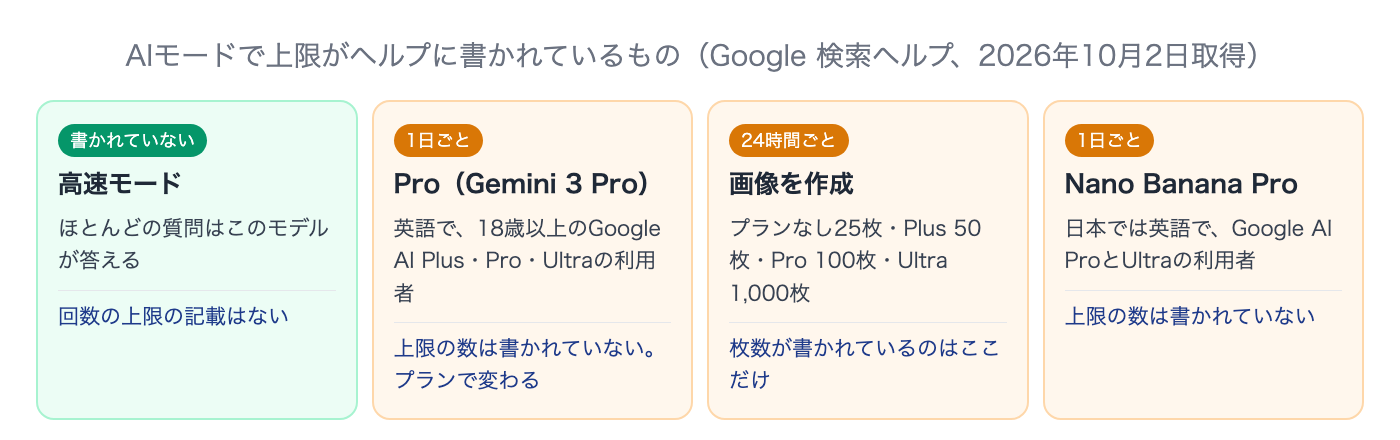
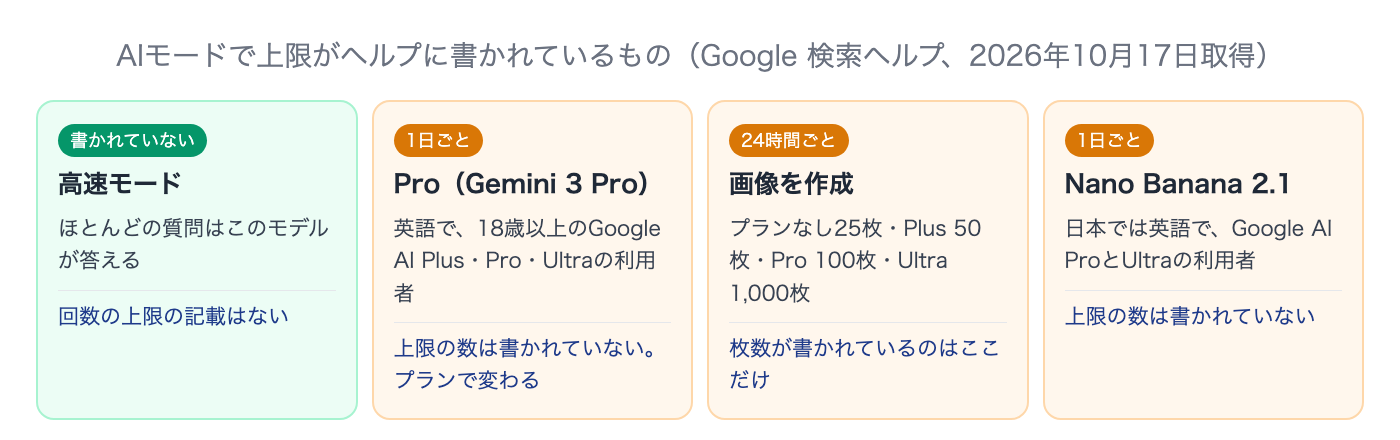
比較ページ・個別記事: Claude Enterpriseの最低20シート（a1）、AIモードのNano Banana ProからNano Banana 2.1（m2）を反映
- ai-compare.json: claude の business セルに Enterprise（年払い・最低20席）、変更履歴2件、last_changed、watch 句を追加
- claude-enterprise・claude-pricing: Enterprise の料金に最低20シートを追記（10/17 取得）
- ai-mode-image-generation・ai-mode-limit・ai-mode-image-upload・ai-mode-english: AIモードの図・インフォグラフィック向けモデルの表記を Nano Banana 2.1 に（ai-mode-limit の図も差し替え）

Changed region(s): [[0.0614, 0.0886, 0.9214, 0.1773], [0.8907, 0.3841, 0.9521, 0.4432]]

diff --git a/media/posts/ai-mode-limit.md b/media/posts/ai-mode-limit.md
@@ -8,14 +8,14 @@ cover_headline: AIモードの回数制限
 cover_sub: 1日の上限・Pro・画像の枚数・Geminiとの違い
 ---
 
-Google検索のAIモードは無料で使え、ふだんの質問に答える「高速モード」のモデルには、Googleのヘルプに回数の上限が書かれていません。ヘルプが1日の上限を書いているのは、上位のモデルのPro（Gemini 3 Pro）、画像の作成、画像のモデルのNano Banana Proの3つです。
+Google検索のAIモードは無料で使え、ふだんの質問に答える「高速モード」のモデルには、Googleのヘルプに回数の上限が書かれていません。ヘルプが1日の上限を書いているのは、上位のモデルのPro（Gemini 3 Pro）、画像の作成、画像のモデルのNano Banana 2.1の3つです。
 
-この記事は2026年10月2日に取得したGoogle 検索ヘルプとGeminiアプリのヘルプをもとに、AIモードで上限があるものと無いものを分け、同じ日に日本語の画面で質問欄のメニューを確かめた結果を載せます。
+この記事は2026年10月2日に取得したGoogle 検索ヘルプとGeminiアプリのヘルプ（Nano Banana 2.1の表記は10月17日に確認）をもとに、AIモードで上限があるものと無いものを分け、同じ日に日本語の画面で質問欄のメニューを確かめた結果を載せます。
 
 :::takeaways
 - ふだんの質問（高速モード）は、**ヘルプに回数の上限が書かれていない**
-- 1日の上限が書かれているのは**Pro・画像の作成・Nano Banana Proの3つ**。枚数まで書かれているのは画像の作成だけで、プランなしは24時間に25枚
-- 日本ではProもNano Banana Proも英語で使うプランの利用者向け。**日本語の画面で質問欄の＋を開くと、出たのは画像の追加・ファイルの追加・画像を作成の3つだった**
+- 1日の上限が書かれているのは**Pro・画像の作成・Nano Banana 2.1の3つ**。枚数まで書かれているのは画像の作成だけで、プランなしは24時間に25枚
+- 日本ではProもNano Banana 2.1も英語で使うプランの利用者向け。**日本語の画面で質問欄の＋を開くと、出たのは画像の追加・ファイルの追加・画像を作成の3つだった**
 - **Geminiアプリの5時間ごと・週ごとの上限は、AIモードとは別のヘルプに書かれた別の上限**
 - 「次の質問をすると、新しい検索が開始します。」は上限の表示ではなく、ヘルプにも説明がない
 :::
@@ -24,14 +24,14 @@ Google検索のAIモードは無料で使え、ふだんの質問に答える「
 
 AIモードの上限は使う機能ごとに決まっています。2026年10月2日にGoogle 検索ヘルプの「[Google 検索の AI モードで AI による回答を取得する](https://support.google.com/websearch/answer/16011537?hl=ja)」と「[Google 検索で画像を作成、編集する](https://support.google.com/websearch/answer/16649374?hl=ja)」を読み、上限に触れている箇所を4つに分けました。
 
-<figure class="post-figure"><img src="/media/images/ai-mode-limit/01_fig_where.png" alt="AIモードで上限がヘルプに書かれているものの図。高速モードは回数の上限の記載がない。Pro（Gemini 3 Pro）は1日ごとの上限があり、英語で18歳以上のGoogle AI Plus・Pro・Ultraの利用者向けで、上限の数は書かれていない。画像を作成は24時間ごとにプランなし25枚・Plus 50枚・Pro 100枚・Ultra 1,000枚。Nano Banana Proは1日ごとの上限があり、日本では英語でGoogle AI ProとUltraの利用者向け" loading="lazy"><figcaption>AIモードの上限は機能ごと。数まで書かれているのは画像の作成だけ</figcaption></figure>
+<figure class="post-figure"><img src="/media/images/ai-mode-limit/01_fig_where.png" alt="AIモードで上限がヘルプに書かれているものの図。高速モードは回数の上限の記載がない。Pro（Gemini 3 Pro）は1日ごとの上限があり、英語で18歳以上のGoogle AI Plus・Pro・Ultraの利用者向けで、上限の数は書かれていない。画像を作成は24時間ごとにプランなし25枚・Plus 50枚・Pro 100枚・Ultra 1,000枚。Nano Banana 2.1は1日ごとの上限があり、日本では英語でGoogle AI ProとUltraの利用者向け" loading="lazy"><figcaption>AIモードの上限は機能ごと。数まで書かれているのは画像の作成だけ</figcaption></figure>
 
 | 機能 | ヘルプにある上限 | 使える人 |
 |---|---|---|
 | 高速モード（ふだんの質問） | 記載なし | だれでも |
 | Pro（Gemini 3 Pro） | 1日ごと。数は書かれていない | 英語で使う18歳以上のGoogle AI Plus・Pro・Ultraの利用者 |
 | 画像を作成 | 24時間に25〜1,000枚（プランで変わる） | ログインした18歳以上の利用者 |
-| Nano Banana Pro | 1日ごと。数は書かれていない | 日本では英語で使うGoogle AI ProとUltraの利用者 |
+| Nano Banana 2.1 | 1日ごと。数は書かれていない | 日本では英語で使うGoogle AI ProとUltraの利用者 |
 
 ### 高速モードには上限の記載がない
 
@@ -58,7 +58,7 @@ AIモードの画像の作成だけは、上限が枚数で書かれています
 | Google AI Pro | 100枚 |
 | Google AI Ultra | 1,000枚 |
 
-上限に達したあとの案内はProと同じで、リセットを待つかプランを上げるかです。図やインフォグラフィックに向いた画像のモデルのNano Banana Proにも別に1日の上限があり、日本では英語で使うGoogle AI ProとUltraの利用者だけが選べます。作り方や保存のしかたは[Google AIモードで画像を生成する方法](/media/ai-mode-image-generation/)にまとめました。
+上限に達したあとの案内はProと同じで、リセットを待つかプランを上げるかです。図やインフォグラフィックに向いた画像のモデルのNano Banana 2.1にも別に1日の上限があり、日本では英語で使うGoogle AI ProとUltraの利用者だけが選べます。ヘルプでのこのモデルの名前は、2026年10月17日にNano Banana ProからNano Banana 2.1に変わりました。作り方や保存のしかたは[Google AIモードで画像を生成する方法](/media/ai-mode-image-generation/)にまとめました。
 
 ## 日本語の画面で質問欄を確かめた結果
 
@@ -92,7 +92,7 @@ ProでもGeminiアプリでもない、ふだんのAIモードの質問で止ま
 |---|---|
 | Pro（Gemini 3 Pro） | 1日の上限のリセットを待つか、Google AIのプランを上げる |
 | 画像の作成 | 24時間の上限のリセットを待つか、Plus・Pro・Ultraにする |
-| Nano Banana Pro | 1日の上限のリセットを待つか、Google AIのプランを上げる |
+| Nano Banana 2.1 | 1日の上限のリセットを待つか、Google AIのプランを上げる |
 
 **リセットの時刻はどの機能のヘルプにも書かれていません。**画像の作成は24時間あたりの枚数なので、たくさん作った時間から1日たつのを目安にします。プランを上げても枚数の上限が上がるだけで、上限そのものがなくなるわけではありません。プランごとの料金は[Geminiの料金プラン](/media/gemini-pricing/)で比べています。
 
@@ -111,7 +111,7 @@ Yahoo!知恵袋には2026年3月から6月にかけて、AIモードで会話を
 ## よくある質問
 
 ### Google AIモードに1日の回数制限はありますか？
-ふだんの質問に答える高速モードには、ヘルプに回数の上限は書かれていません。1日の上限があるのはPro（Gemini 3 Pro）・画像の作成・Nano Banana Proの3つです。
+ふだんの質問に答える高速モードには、ヘルプに回数の上限は書かれていません。1日の上限があるのはPro（Gemini 3 Pro）・画像の作成・Nano Banana 2.1の3つです。
 
 ### Google AIモードは何回まで無料で使えますか？
 ふだんの質問は無料で、回数の上限の記載はありません。画像の作成はGoogle AIのプランに入っていなくても24時間に25枚まで作れます。
@@ -123,7 +123,7 @@ Yahoo!知恵袋には2026年3月から6月にかけて、AIモードで会話を
 日本は対応国に入っていますが、言語は英語だけで、18歳以上のGoogle AI Plus・Pro・Ultraの利用者が対象です。2026年10月2日に日本語の画面で質問欄の＋を開いたときは、Proを選ぶ項目は出ませんでした。
 
 ### AIモードの上限はいつリセットされますか？
-ヘルプにリセットの時刻は書かれていません。ProとNano Banana Proは1日ごと、画像の作成は24時間あたりの上限です。
+ヘルプにリセットの時刻は書かれていません。ProとNano Banana 2.1は1日ごと、画像の作成は24時間あたりの上限です。
 
 ### AIモードとGeminiアプリの上限は同じですか？
 別のものです。Geminiアプリには使った量で決まる上限があり、週ごとの上限に達するまで5時間ごとにリセットされます。AIモードのヘルプには5時間や週の区切りはありません。
@@ -139,7 +139,7 @@ Yahoo!知恵袋には2026年3月から6月にかけて、AIモードで会話を
 本文の上限と条件は2026年10月2日に取得した次のヘルプとプランのページで確認しています。質問欄のメニューは同じ日にパソコンとスマホの画面で確かめました。
 
 - [Google 検索の AI モードで AI による回答を取得する](https://support.google.com/websearch/answer/16011537?hl=ja)（Google 検索ヘルプ。高速モード、Gemini 3 Proの提供状況と1日ごとの使用量制限）
-- [Google 検索で画像を作成、編集する](https://support.google.com/websearch/answer/16649374?hl=ja)（Google 検索ヘルプ。画像の作成の24時間あたりの上限、Nano Banana Proの1日ごとの上限）
+- [Google 検索で画像を作成、編集する](https://support.google.com/websearch/answer/16649374?hl=ja)（Google 検索ヘルプ。画像の作成の24時間あたりの上限、Nano Banana 2.1の1日ごとの上限。Nano Banana 2.1の表記は2026年10月17日取得）
 - [Google AI のサブスクリプション プランに応じた Gemini アプリの使用量上限とアップグレード](https://support.google.com/gemini/answer/16275805?hl=ja)（Geminiアプリ ヘルプ。5時間ごと・週ごとの上限）
 - [Google AI のプラン](https://one.google.com/about/google-ai-plans/?hl=ja)（Google One。プランごとのAIモードとDeep Searchの扱い）
 - [Googleのaiモードで会話をしていたら急に、エラーが発生したため…](https://detail.chiebukuro.yahoo.co.jp/qa/question_detail/q10326493840)（Yahoo!知恵袋、2026年3月22日）

diff --git a/media/posts/claude-enterprise.md b/media/posts/claude-enterprise.md
@@ -8,12 +8,12 @@ cover_headline: Claude Enterpriseとは
 cover_sub: 料金の仕組み・Teamとの違い・申し込み
 ---
 
-Claude Enterpriseは、Anthropicの[料金ページ](https://claude.com/ja/pricing)のTeam & Enterpriseタブで「大規模に事業を展開する大企業向け」とされている法人向けのプランです。金額の欄には1席あたり月US$20（年払い）と、APIレートでの使用量が並んでいます。席の料金に使える量が含まれるTeamとは、お金のかかり方が根本から違います。
+Claude Enterpriseは、Anthropicの[料金ページ](https://claude.com/ja/pricing)のTeam & Enterpriseタブで「大規模に事業を展開する大企業向け」とされている法人向けのプランです。金額の欄には1席あたり月US$20（年払い、最低20シート）と、APIレートでの使用量が並んでいます。席の料金に使える量が含まれるTeamとは、お金のかかり方が根本から違います。
 
-検討する側が迷うのはTeamとEnterpriseのどちらにするかです。**会社で毎月の金額を席の数で固定できるのはTeamだけで、Enterpriseは席の料金とは別に、使った分を全員分まとめて払う契約です。**この記事は2026年10月13日に取得した料金ページの比較表とヘルプセンターをもとに、料金の数え方・何人から契約できるか・Enterpriseにしかない管理機能・申し込みと移行の注意を整理します。
+検討する側が迷うのはTeamとEnterpriseのどちらにするかです。**会社で毎月の金額を席の数で固定できるのはTeamだけで、Enterpriseは席の料金とは別に、使った分を全員分まとめて払う契約です。**この記事は2026年10月13日に取得した料金ページの比較表とヘルプセンター（最低20シートの表記は10月17日に確認）をもとに、料金の数え方・何人から契約できるか・Enterpriseにしかない管理機能・申し込みと移行の注意を整理します。
 
 :::takeaways
-- Enterpriseは**1席あたり月US$20（年払いのみ）に、使った分のAPI料金が乗る**。席に含まれる使用量はない
+- Enterpriseは**1席あたり月US$20（年払いのみ・最低20席）に、使った分のAPI料金が乗る**。席に含まれる使用量はない
 - **毎月の金額を席の数で決められるのはTeamだけ**。Enterpriseの費用は管理者が決める支出上限で抑える
 - 最低席数は**セルフサービスが20席、営業担当経由が50席**。Teamは2〜150席
 - SSOとドメイン確認はTeamにもある。**SCIM・監査ログ・カスタムデータ保持・コンプライアンスAPIは比較表でEnterpriseだけ**（ロールベースの権限は、Teamのヘルプにも項目がある）
@@ -32,7 +32,7 @@ Teamにはスタンダードとプレミアムの2種類の席がありますが
 
 ## 料金は席料と使った分
 
-料金ページのEnterpriseの欄には「シート料金 + APIレートでの使用量」と書かれ、その下に1席あたり月US$20（年払い）と、使用コストはモデルとタスクに応じて変動するという注記があります。月払いの選択肢はありません。
+料金ページのEnterpriseの欄には「シート料金 + APIレートでの使用量」と書かれ、その下に1席あたり月US$20（年払い、最低20シート）と、使用コストはモデルとタスクに応じて変動するという注記があります。月払いの選択肢はありません。「最低20シート」は2026年10月16日に料金ページに加わった表記で、それまではヘルプにだけ書かれていました。
 
 <figure class="post-figure post-figure--sp"><img src="/media/images/claude-enterprise/cent_02_pricing_sp.jpg" alt="Claudeの料金ページのTeam & Enterpriseタブをスマホで開き、Enterpriseのカードを表示した画面。Enterprise plan を申し込むと購入スペシャリストとチャットのボタンの下に、シート料金とAPIレートでの使用量、US$20/シート/月（年払い）の表示があり、そこを赤枠1で囲んでいる" loading="lazy"><figcaption>料金ページのEnterpriseの欄（2026年10月13日、スマホ表示）</figcaption></figure>
 
@@ -60,7 +60,7 @@ Teamにはスタンダードとプレミアムの2種類の席がありますが
 
 ## 何人から契約できるか
 
-Enterpriseのシートのヘルプ「[エンタープライズプランでシートを購入・管理する](https://support.claude.com/ja/articles/13393991)」には、最低20席が必要とあります。営業担当経由は最低50席です。
+Enterpriseのシートのヘルプ「[エンタープライズプランでシートを購入・管理する](https://support.claude.com/ja/articles/13393991)」には最低20席が必要とあり、料金ページのEnterpriseの欄にも同じ条件が書かれています。営業担当経由は最低50席です。
 
 | 項目 | Team | Enterprise（セルフサービス） | Enterprise（営業担当経由） |
 |---|---|---|---|
@@ -148,7 +148,7 @@ SCIMや権限、使用量の上限を整えたあと、決まった仕事をClau
 
 ### Q. Claude Enterpriseの料金はいくらですか？
 
-1席あたり月US$20（年払い）の席の料金と、使った分のAPI料金の合計です。席に含まれる使用量はなく、チャット・Claude Code・Coworkで使ったトークンは標準のAPIレートで請求されます。料金ページの日本の表示には、TeamとEnterpriseの下に共通で「Prices include 10% JCT」とありますが、EnterpriseのUS$20は米国の表示と同じ額で、消費税を含むかは読み取れません。見積もりで確かめてください。
+1席あたり月US$20（年払い、最低20席）の席の料金と、使った分のAPI料金の合計です。席に含まれる使用量はなく、チャット・Claude Code・Coworkで使ったトークンは標準のAPIレートで請求されます。料金ページの日本の表示には、TeamとEnterpriseの下に共通で「Prices include 10% JCT」とありますが、EnterpriseのUS$20は米国の表示と同じ額で、消費税を含むかは読み取れません。見積もりで確かめてください。
 
 ### Q. Claude Enterpriseは何人から契約できますか？
 
@@ -180,7 +180,7 @@ SCIMや権限、使用量の上限を整えたあと、決まった仕事をClau
 
 ## 出典
 
-すべて2026年10月13日に取得。
+すべて2026年10月13日に取得。料金ページのEnterpriseの欄の「最低20シート」は2026年10月17日に取得。
 
 - Claude「[料金](https://claude.com/ja/pricing)」Team & Enterpriseタブ、プラン間の機能の比較表、FAQ
 - Claude「[Pricing](https://claude.com/pricing)」（米国向け）Team & Enterpriseタブ

diff --git a/media/posts/ai-mode-image-generation.md b/media/posts/ai-mode-image-generation.md
@@ -75,11 +75,11 @@ Googleの発表によると、AIモードの画像を描いているのは画像
 | Google AI Pro | 100枚まで |
 | Google AI Ultra | 1,000枚まで |
 
-ただしGoogle AI のプランは地域やアカウントの種類によって使えない場合がある、とヘルプは注記しています。**上限に達したら、リセットされるまで待つかプランを上げるかのどちらかです。**上限は計算資源や需要によって変わることがある、ともヘルプは書いています。Proのモデルなど画像以外の上限は[Google AIモードの回数制限](/media/ai-mode-limit/)にまとめました。
+ただしGoogle AI のプランは地域やアカウントの種類によって使えない場合がある、とヘルプは注記しています。**上限に達したら、リセットされるまで待つかプランを上げるかのどちらかです。**上限は処理能力や需要によって変わることがある、ともヘルプは書いています。Proのモデルなど画像以外の上限は[Google AIモードの回数制限](/media/ai-mode-limit/)にまとめました。
 
-### Nano Banana Proを使う場合
+### Nano Banana 2.1を使う場合
 
-AIモードには図やインフォグラフィックに向いたNano Banana Proという画像のモデルもあります。ヘルプによると、日本で使えるのはGoogle AI ProとGoogle AI Ultraの利用者で、言語は英語だけです。質問欄のメニューで「Pro」を選んでから「画像を作成」を選ぶ手順で、こちらにも1日の上限があります。
+AIモードには図やインフォグラフィックに向いたNano Banana 2.1という画像のモデルもあります。ヘルプでは2026年10月16日までNano Banana Proと書かれていたモデルの枠で、10月17日にNano Banana 2.1の表記に変わりました。ヘルプによると、日本で使えるのはGoogle AI ProとGoogle AI Ultraの利用者で、言語は英語だけです。質問欄のメニューで「Pro」を選んでから「画像を作成」を選ぶ手順で、こちらにも1日の上限があります。
 
 ## 通常の検索との違い
 
@@ -147,9 +147,9 @@ AIモードには図やインフォグラフィックに向いたNano Banana Pro
 
 Googleの画像のモデル「Nano Banana 2」です。Googleは2026年2月26日の発表で、検索ではAIモードとレンズにNano Banana 2を広げるとしています。
 
-### AIモードでNano Banana Proは使えますか？
+### AIモードでNano Banana 2.1は使えますか？
 
-日本ではGoogle AI ProとGoogle AI Ultraの利用者だけで、言語は英語です。質問欄のメニューで「Pro」を選んでから「画像を作成」を選びます。
+日本ではGoogle AI ProとGoogle AI Ultraの利用者だけで、言語は英語です。ヘルプでは以前Nano Banana Proと書かれていた枠で、2026年10月17日にNano Banana 2.1の表記に変わりました。質問欄のメニューで「Pro」を選んでから「画像を作成」を選びます。
 
 ### AIモードの画像生成の上限はいつリセットされますか？
 
@@ -161,7 +161,7 @@ Googleの画像のモデル「Nano Banana 2」です。Googleは2026年2月26日
 
 ## 出典
 
-- Google 検索ヘルプ「[Google 検索で画像を作成、編集する](https://support.google.com/websearch/answer/16649374?hl=ja)」（パソコン・Android・iPhone の各版。2026年10月6日取得）
+- Google 検索ヘルプ「[Google 検索で画像を作成、編集する](https://support.google.com/websearch/answer/16649374?hl=ja)」（パソコン・Android・iPhone の各版。2026年10月6日取得。Nano Banana 2.1の表記は10月17日取得）
 - Google 検索ヘルプ「[Google 検索の AI モードで AI による回答を取得する](https://support.google.com/websearch/answer/16011537?hl=ja)」（2026年10月6日取得）
 - Google「[Nano Banana 2: Google's latest AI image generation model](https://blog.google/innovation-and-ai/technology/ai/nano-banana-2/)」（2026年2月26日、2026年10月6日取得）
 - Google「[Making it easier to understand how content was created and edited](https://blog.google/innovation-and-ai/products/identifying-ai-generated-media-online/)」（2026年5月19日、2026年10月6日取得）
